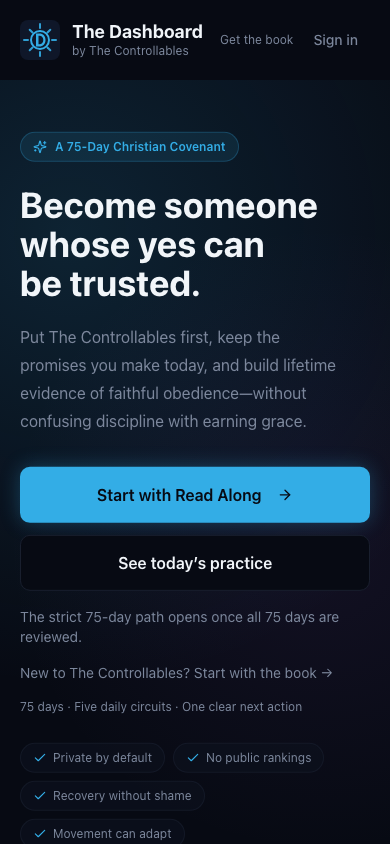
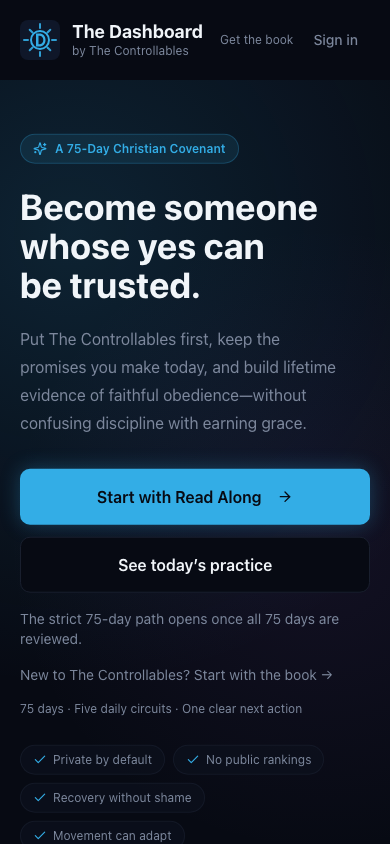
QA polish: Formation book links, sign out and independent loading (#70)
* Polish Formation entry, book links, sign out and independent loading

* Verify rebased mobile QA with deterministic menu dismissal

* Capture combined functional and polish receipt state

diff --git a/tests/unit/qa-polish.test.ts b/tests/unit/qa-polish.test.ts
@@ -1,0 +1,43 @@
+import { createElement, useContext, type ReactNode } from "react";
+import { act,create } from "react-test-renderer";
+import { MemoryRouter } from "react-router-dom";
+import { QueryClient, QueryClientProvider } from "@tanstack/react-query";
+import { describe,it,expect,vi } from "vitest";
+import { BookLink } from "@/components/BookLink";
+import { BOOK_URL } from "@/lib/bookLinks";
+import { trackGrowthEvent } from "@/lib/growthEvents";
+import { ProfileMenu } from "@/components/layout/ProfileMenu";
+import { BottomNav } from "@/components/layout/BottomNav";
+import { FormationBookBoundary } from "@/components/formation/FormationBookBoundary";
+import { BookLoopContext } from "@/hooks/useBookLoopState";
+import { renderToStaticMarkup } from "react-dom/server";
+import { WhyStartSection } from "@/components/landing/WhyStartSection";
+import { OnboardingWelcome } from "@/components/onboarding/OnboardingWelcome";
+vi.mock("@/lib/devMockAuth",()=>({isDevMockAuthEnabled:()=>false}));
+vi.mock("@/lib/featureFlags",()=>({getFeatureFlag:()=>true,formationCircuitsEnabled:()=>true}));
+vi.mock("@/lib/growthEvents",()=>({trackGrowthEvent:vi.fn()}));
+vi.mock("@/components/BookLoopProvider",()=>({BookLoopProvider:()=>createElement("p",null,"Loading book data")}));
+vi.mock("@/components/ui/dropdown-menu",()=>{const Box=({children,...props}:{children:ReactNode})=>createElement("div",props,children); return {DropdownMenu:Box,DropdownMenuTrigger:Box,DropdownMenuContent:Box,DropdownMenuItem:Box};});
+describe("QA polish boundaries",()=>{
+ it.each(["formation_today","formation_circuit"] as const)("tracks the shared book destination at %s",placement=>{
+  let tree:ReturnType<typeof create>; act(()=>{tree=create(createElement(BookLink,{placement,children:"Get the book"}));});
+  const link=tree!.root.findByType("a"); expect(link.props.href).toBe(BOOK_URL); act(()=>link.props.onClick()); expect(trackGrowthEvent).toHaveBeenCalledWith("book_link_click",{placement}); act(()=>tree!.unmount());
+ });
+ it("exposes sign out in profile menu and mobile navigation without settings",()=>{
+  const signOut=vi.fn(),settings=vi.fn(); let tree:ReturnType<typeof create>;
+  act(()=>{tree=create(createElement(MemoryRouter,null,createElement(ProfileMenu,{onSignOut:signOut,onSettings:settings}),createElement(BottomNav,{onSignOut:signOut})));});
+  const menu=tree!.root.findAllByType("div").find(n=>n.props.onSelect===signOut)!; act(()=>menu.props.onSelect());
+  const mobile=tree!.root.findAllByType("button").find(n=>n.props.onClick===signOut)!; act(()=>mobile.props.onClick());
+  expect(signOut).toHaveBeenCalledTimes(2); expect(settings).not.toHaveBeenCalled(); act(()=>tree!.unmount());
+ });
+ it("renders Formation immediately with authenticated book context, keeping other routes on their book boundary",()=>{
+  const client=new QueryClient(); function Child(){return createElement("p",null,`Formation ${useContext(BookLoopContext)}`);}
+  let tree:ReturnType<typeof create>; const render=(formation:boolean)=>createElement(QueryClientProvider,{client},createElement(FormationBookBoundary,{userId:"alice",formation,children:createElement(Child)}));
+  act(()=>{tree=create(render(true));}); expect(JSON.stringify(tree!.toJSON())).toContain("Formation alice"); expect(JSON.stringify(tree!.toJSON())).not.toContain("Loading book data");
+  act(()=>tree!.update(render(false))); expect(JSON.stringify(tree!.toJSON())).toContain("Loading book data"); act(()=>tree!.unmount());client.clear();
+ });
+ it("renders clear welcome copy without implementation jargon",()=>{
+  const html=renderToStaticMarkup(createElement("div",null,createElement(WhyStartSection),createElement(OnboardingWelcome,{onContinue:()=>{},onSkip:()=>{}})));
+  expect(html).not.toMatch(/Life OS|idempotent/i); expect(html).toContain("The Dashboard will suggest");
+ });
+});

diff --git a/tests/e2e/qa-polish.spec.ts b/tests/e2e/qa-polish.spec.ts
@@ -1,0 +1,24 @@
+import {test,expect} from "@playwright/test";
+import {BOOK_URL} from "../../src/lib/bookLinks";
+test.use({reducedMotion:"reduce"});
+async function settled(page: import("@playwright/test").Page, selector:string){ await expect.poll(()=>page.locator(selector).evaluate(el=>{let opacity=1;for(let n:Element|null=el;n;n=n.parentElement)opacity*=Number(getComputedStyle(n).opacity);return opacity;})).toBe(1); }
+test("mobile Formation book links, sign out, copy, and signup-only guidance",async({page})=>{
+ await page.route("**/*",route=>new URL(route.request().url()).hostname==="127.0.0.1"?route.continue():route.abort());
+ const start=Date.now(); await page.goto("/formation/today"); await expect(page.getByRole("heading",{name:"Practice what you can control."})).toBeVisible(); console.log(`QA polish Today shell ${Date.now()-start}ms`);
+ await expect(page.locator('[data-book-placement="formation_today"]')).toHaveAttribute("href",BOOK_URL);
+ await expect(page.locator("body")).not.toContainText(/Life OS|idempotent/i);
+ await page.getByRole("button",{name:"Profile menu"}).click(); await expect(page.getByRole("menuitem",{name:"Sign Out"})).toBeVisible(); await page.getByRole("menu",{name:"Profile menu"}).press("Escape"); await expect(page.getByRole("menu",{name:"Profile menu"})).toBeHidden();
+ await expect(page.getByRole("button",{name:"Sign Out",exact:true})).toBeVisible();
+ await page.getByRole("button",{name:"Open Awareness"}).click(); await expect(page.locator('[data-book-placement="formation_circuit"]')).toHaveAttribute("href",BOOK_URL); await expect(page.locator("body")).not.toContainText(/Life OS|idempotent/i);
+ await page.goto("/formation/today");
+ await page.evaluate(async()=>{
+  const circuitsPath="/src/domain/formation/circuits.ts",repoPath="/src/data/formation/circuitRepository.ts",authPath="/src/lib/devMockAuth.ts",rulesPath="/src/domain/formation/circuitRules.ts";
+  const {CIRCUIT_TYPES,createEmptyCircuitDraft}=await import(circuitsPath),{saveFormationCircuit}=await import(repoPath),{DEV_MOCK_USER_ID}=await import(authPath),{getLocalDate}=await import(rulesPath);
+  const actions=["scripture_opened","prayer_practiced","main_promise_completed","sleep_preparation","service_completed"];
+  for(const [i,circuit] of CIRCUIT_TYPES.entries()){const draft=createEmptyCircuitDraft();draft.actions[actions[i]]=true;await saveFormationCircuit({userId:DEV_MOCK_USER_ID,track:"read_along",circuit,localDate:getLocalDate(),draft,localOnly:true});}
+ });
+ await page.reload(); await expect(page.getByRole("progressbar",{name:"5 of 5 circuits recorded"})).toBeVisible(); await settled(page,"h1"); await page.screenshot({path:"docs/qa/pr2/today-mobile.png",fullPage:true});
+ await page.getByRole("button",{name:"Sign Out",exact:true}).click(); await expect(page.getByTestId("cta-get-started")).toBeVisible(); await settled(page,'[data-testid="cta-get-started"]'); await page.screenshot({path:"docs/qa/pr2/landing-mobile.png"});
+ await page.goto("/auth"); await expect(page.getByTestId("auth-form")).toBeVisible(); await expect(page.locator("#password-help")).toHaveCount(0); await expect(page.getByTestId("auth-password-input")).not.toHaveAttribute("aria-describedby","password-help"); await settled(page,'[data-testid="auth-form"]'); await page.screenshot({path:"docs/qa/pr2/auth-mobile.png",fullPage:true});
+ await page.goto("/auth?mode=signup"); await expect(page.locator("#password-help")).toBeVisible(); await expect(page.getByTestId("auth-password-input")).toHaveAttribute("aria-describedby","password-help");
+});

diff --git a/src/components/layout/LifeOSLayout.tsx b/src/components/layout/LifeOSLayout.tsx
@@ -1,7 +1,8 @@
-import { BookLoopProvider } from "@/components/BookLoopProvider";
+import { FormationBookBoundary } from "@/components/formation/FormationBookBoundary";
+import { ProfileMenu } from "./ProfileMenu";
 import { useState, useCallback, Suspense, useEffect } from "react";
 import { useNavigate, Outlet, useLocation } from "react-router-dom";
-import { Book, Flag, FlaskConical, RefreshCw, Settings } from "lucide-react";
+import { Book, Flag, FlaskConical, RefreshCw } from "lucide-react";
 import { Button } from "@/components/ui/button";
 import { Logo } from "@/components/Logo";
 import { SplashScreen } from "@/components/SplashScreen";
@@ -130,15 +131,7 @@ export const LifeOSLayout = () => {
               >
                 <Book className="w-4 h-4" />
               </Button>
-              <Button
-                variant="ghost"
-                size="icon"
-                onClick={() => setShowProfileSettings(true)}
-                className="rounded-xl text-muted-foreground hover:text-foreground"
-                title="Profile Settings"
-              >
-                <Settings className="w-4 h-4" />
-              </Button>
+              <ProfileMenu onSettings={() => setShowProfileSettings(true)} onSignOut={() => void handleSignOut()} />
             </div>
           </div>
         </header>
@@ -166,7 +159,7 @@ export const LifeOSLayout = () => {
               pullDistance={pullDistance}
             />
             <div className="mx-auto w-full max-w-md px-3 py-4 sm:px-5 md:max-w-3xl md:px-6 lg:max-w-5xl xl:max-w-7xl">
-              <BookLoopProvider userId={user.id}>
+              <FormationBookBoundary userId={user.id} formation={location.pathname.startsWith("/formation/")}>
                 <AnimatePresence mode="wait">
                   <motion.div
                     key={location.pathname}
@@ -180,13 +173,13 @@ export const LifeOSLayout = () => {
                     </Suspense>
                   </motion.div>
                 </AnimatePresence>
-              </BookLoopProvider>
+              </FormationBookBoundary>
             </div>
           </main>
         </div>
 
         {/* Bottom nav (mobile only) */}
-        <BottomNav />
+        <BottomNav onSignOut={handleSignOut} />
 
         {/* Global overlays */}
         <OfflineIndicator />

diff --git a/src/pages/Auth.tsx b/src/pages/Auth.tsx
@@ -493,13 +493,13 @@ export default function Auth() {
                     </div>
                     <div className="relative">
                       <Lock className="absolute left-3 top-1/2 -translate-y-1/2 w-4 h-4 text-muted-foreground" />
-                      <Input id="password" required minLength={6} aria-describedby="password-help" type={showPassword ? "text" : "password"} value={password} onChange={(e) => setPassword(e.target.value)} placeholder="••••••••" className="pl-10 pr-10 bg-background/50" autoComplete={mode === "signin" ? "current-password" : "new-password"} data-testid="auth-password-input" />
+                      <Input id="password" required minLength={6} aria-describedby={mode === "signup" ? "password-help" : undefined} type={showPassword ? "text" : "password"} value={password} onChange={(e) => setPassword(e.target.value)} placeholder="••••••••" className="pl-10 pr-10 bg-background/50" autoComplete={mode === "signin" ? "current-password" : "new-password"} data-testid="auth-password-input" />
                       <button type="button" onClick={() => setShowPassword(!showPassword)} aria-label={showPassword ? "Hide password" : "Show password"} className="absolute right-0 top-1/2 flex h-10 w-10 -translate-y-1/2 items-center justify-center text-muted-foreground hover:text-foreground">
                         {showPassword ? <EyeOff className="w-4 h-4" /> : <Eye className="w-4 h-4" />}
                       </button>
                     </div>
                   </div>
-                  <p id="password-help" className="text-xs text-muted-foreground">Use at least 6 characters. A longer, unique password is best.</p>
+                  {mode === "signup" ? <p id="password-help" className="text-xs text-muted-foreground">Use at least 6 characters. A longer, unique password is best.</p> : null}
                   <Button type="submit" variant="glow" className="w-full" disabled={isLoading || (mode === "signup" && selectedEnrollment?.track === "fully_charged_75" && !availability.data?.strictReady)} data-testid="auth-submit-button">
                     {isLoading ? (mode === "signin" ? "Signing in..." : "Creating account...") : (mode === "signin" ? "Sign In" : "Create account & start my daily loop")}
                   </Button>

diff --git a/src/pages/FormationCircuit.tsx b/src/pages/FormationCircuit.tsx
@@ -1,3 +1,4 @@
+import { BookLink } from "@/components/BookLink";
 import { readPublishedGospelAwareness } from "@/domain/formation/gospelAwareness";
 import { trackFirstCircuitCompleted } from "@/lib/growthEvents";
 import { ArrowLeft, CheckCircle2, LockKeyhole, Save, ShieldCheck } from "lucide-react";
@@ -204,6 +205,7 @@ function FormationCircuitExperience({ circuit }: { circuit: keyof typeof CIRCUIT
         }
       >
         <p className="text-sm text-muted-foreground">{evaluation.statusDescription}</p>
+        <p className="mt-3 text-sm"><BookLink placement="formation_circuit" className="inline-flex min-h-11 items-center text-primary underline">Read The Controllables · Get the book</BookLink></p>
       </FutureHero>
 
       {definition.privacyNote ? (
@@ -284,7 +286,7 @@ function FormationCircuitExperience({ circuit }: { circuit: keyof typeof CIRCUIT
         <div className="flex flex-col gap-3 sm:flex-row sm:items-center sm:justify-between">
           <div className="min-w-0">
             <p className="flex items-center gap-2 text-sm font-semibold"><CheckCircle2 className="h-4 w-4 text-primary" />{evaluation.statusLabel}</p>
-            <p className="mt-1 truncate text-xs text-muted-foreground">{localOnly ? "Local QA data only" : "Use Save progress to keep changes"} · idempotent daily record</p>
+            <p className="mt-1 truncate text-xs text-muted-foreground">{localOnly ? "Local QA data only" : "Use Save progress to keep changes"} · Your daily practice stays in one saved record</p>
           </div>
           <div className="flex gap-2">
             <Button variant="ghost" disabled={isSaving} onClick={() => navigate(APP_ROUTES.formationToday)}>Return to Today</Button>

diff --git a/tests/unit/qa-auth-hint.test.ts b/tests/unit/qa-auth-hint.test.ts
@@ -1,0 +1,17 @@
+// @vitest-environment jsdom
+import { createElement } from "react";
+import { act,create } from "react-test-renderer";
+import { MemoryRouter } from "react-router-dom";
+import { it,expect,vi } from "vitest";
+import Auth from "@/pages/Auth";
+vi.mock("@/hooks/useFormationEntryStatus",()=>({useFormationEntryStatus:()=>({data:{strictReady:false}})}));
+vi.mock("@/hooks/useAnalytics",()=>({usePageViewTracking:()=>{},useAnalytics:()=>({trackEvent:vi.fn()})}));
+vi.mock("@/hooks/useOnboardingAnalytics",()=>({useOnboardingAnalytics:()=>({trackOnboardingEvent:vi.fn()})}));
+vi.mock("@/lib/growthEvents",()=>({trackGrowthEvent:vi.fn()}));
+vi.mock("@/integrations/supabase/client",()=>({supabase:{auth:{getSession:async()=>({data:{session:null}}),onAuthStateChange:()=>({data:{subscription:{unsubscribe(){}}}})}}}));
+it.each(["signin","signup"])("password guidance is conditional in %s",async mode=>{
+ let tree:ReturnType<typeof create>; await act(async()=>{tree=create(createElement(MemoryRouter,{initialEntries:[`/auth?mode=${mode}`]},createElement(Auth)));});
+ expect(tree!.root.findAllByProps({id:"password-help"})).toHaveLength(mode==="signup"?1:0);
+ const input=tree!.root.findAllByType("input").find(n=>n.props.id==="password")!;
+ expect(input.props["aria-describedby"]).toBe(mode==="signup"?"password-help":undefined); act(()=>tree!.unmount());
+});

diff --git a/src/pages/FormationToday.tsx b/src/pages/FormationToday.tsx
@@ -1,3 +1,4 @@
+import { BookLink } from "@/components/BookLink";
 import { FirstWeekPanel } from "@/components/formation/FirstWeekPanel";
 import {
   ArrowRight,
@@ -106,6 +107,7 @@ export default function FormationToday() {
         <p className="text-sm leading-relaxed text-muted-foreground">
           Five distinct circuits, one honest day. Open a circuit to see what your selected path requires or recommends.
         </p>
+        <p className="mt-3 text-sm"><BookLink placement="formation_today" className="inline-flex min-h-11 items-center text-primary underline">Read The Controllables · Get the book</BookLink></p>
       </FutureHero>
 
       <FuturePanel className="p-4 sm:p-5">
@@ -196,7 +198,7 @@ export default function FormationToday() {
         <div className="flex items-start gap-3">
           <History className="mt-0.5 h-4 w-4 shrink-0 text-muted-foreground" />
           <div>
-            <p className="text-sm font-semibold">Your Life OS history remains available.</p>
+            <p className="text-sm font-semibold">Your earlier history remains available.</p>
             <p className="mt-1 text-xs text-muted-foreground">Your reflections, proof, promises and other tools remain available. Keep Today as your starting point.</p>
           </div>
         </div>

diff --git a/src/components/formation/FormationBookBoundary.tsx b/src/components/formation/FormationBookBoundary.tsx
@@ -1,0 +1,18 @@
+import { useEffect, type ReactNode } from "react";
+import { useQueryClient } from "@tanstack/react-query";
+import { BookLoopProvider } from "@/components/BookLoopProvider";
+import { getFeatureFlag } from "@/lib/featureFlags";
+import { isDevMockAuthEnabled } from "@/lib/devMockAuth";
+import { BookLoopContext } from "@/hooks/useBookLoopState";
+
+/** Formation loads its own data. Retain authenticated cloud book semantics without waiting for import. */
+export function FormationBookBoundary({ userId, formation, children }: { userId:string; formation:boolean; children:ReactNode }) {
+  const client = useQueryClient();
+  useEffect(() => {
+    client.removeQueries({ queryKey:["book-loop"], predicate:q=>q.queryKey[1] !== userId });
+    return () => { client.removeQueries({queryKey:["book-loop",userId]}); };
+  },[client,userId]);
+  if (formation && (!getFeatureFlag("server_book_loop_enabled") || isDevMockAuthEnabled())) return <>{children}</>;
+  if (formation) return <BookLoopContext.Provider value={userId}>{children}</BookLoopContext.Provider>;
+  return <BookLoopProvider userId={userId}>{children}</BookLoopProvider>;
+}

diff --git a/src/components/layout/BottomNav.tsx b/src/components/layout/BottomNav.tsx
@@ -1,4 +1,4 @@
-import { Archive, BatteryCharging, BookOpen, Dumbbell, Sun } from "lucide-react";
+import { Archive, LogOut, BatteryCharging, BookOpen, Dumbbell, Sun } from "lucide-react";
 import { useLocation, useNavigate } from "react-router-dom";
 import { motion } from "framer-motion";
 import { APP_ROUTES } from "@/lib/appRoutes";
@@ -12,7 +12,7 @@ const navItems = [
   { path: APP_ROUTES.myControllables, label: "My", icon: BatteryCharging },
 ];
 
-export const BottomNav = () => {
+export const BottomNav = ({ onSignOut }: { onSignOut?: () => void }) => {
   const location = useLocation();
   const navigate = useNavigate();
 
@@ -59,6 +59,7 @@ export const BottomNav = () => {
             </motion.button>
           );
         })}
+        {onSignOut ? <button onClick={onSignOut} className="flex min-h-11 min-w-0 flex-1 flex-col items-center gap-0.5 rounded-xl px-1 py-2 text-muted-foreground hover:bg-muted/40"><LogOut className="h-5 w-5" /><span className="text-[10px] font-medium">Sign Out</span></button> : null}
       </div>
     </nav>
   );

diff --git a/src/components/onboarding/OnboardingWelcome.tsx b/src/components/onboarding/OnboardingWelcome.tsx
@@ -17,12 +17,12 @@ export function OnboardingWelcome({ onContinue, onSkip }: OnboardingWelcomeProps
     >
       <div className="max-w-md w-full text-center space-y-8">
         <div className="space-y-2">
-          <p className="text-xs uppercase tracking-[0.2em] text-muted-foreground">AI Life Operating System</p>
+          <p className="text-xs uppercase tracking-[0.2em] text-muted-foreground">Your daily formation</p>
           <h1 className="text-2xl font-bold tracking-tight text-foreground leading-snug">
             Teach your system how your life works.
           </h1>
           <p className="text-sm text-muted-foreground leading-relaxed pt-2">
-            Connect a few signals — your calendar, your energy, what matters to you — and your Life OS will generate your first daily direction.
+            Connect a few signals — your calendar, your energy, what matters to you — and The Dashboard will suggest your first daily direction.
           </p>
         </div>
 

diff --git a/src/components/layout/ProfileMenu.tsx b/src/components/layout/ProfileMenu.tsx
@@ -1,0 +1,12 @@
+import { LogOut, Settings, UserRound } from "lucide-react";
+import { Button } from "@/components/ui/button";
+import { DropdownMenu, DropdownMenuTrigger, DropdownMenuContent, DropdownMenuItem } from "@/components/ui/dropdown-menu";
+export function ProfileMenu({ onSettings, onSignOut }: { onSettings:()=>void; onSignOut:()=>void }) {
+  return <DropdownMenu>
+    <DropdownMenuTrigger asChild><Button variant="ghost" size="icon" className="rounded-xl" aria-label="Profile menu"><UserRound className="h-4 w-4" /></Button></DropdownMenuTrigger>
+    <DropdownMenuContent align="end">
+      <DropdownMenuItem onSelect={onSettings}><Settings className="mr-2 h-4 w-4" />Profile Settings</DropdownMenuItem>
+      <DropdownMenuItem onSelect={onSignOut}><LogOut className="mr-2 h-4 w-4" />Sign Out</DropdownMenuItem>
+    </DropdownMenuContent>
+  </DropdownMenu>;
+}

diff --git a/src/components/BookLink.tsx b/src/components/BookLink.tsx
@@ -14,7 +14,7 @@ export const BookLink = forwardRef<HTMLAnchorElement, BookLinkProps>(function Bo
 ) {
   return (
     <a ref={ref} href={BOOK_URL} target="_blank" rel="noopener noreferrer"
-      className={className} data-testid={testId}
+      className={className} data-testid={testId} data-book-placement={placement}
       onClick={() => {
         try { void Promise.resolve(trackGrowthEvent("book_link_click", { placement })).catch(() => undefined); }
         catch { /* Analytics must never interrupt navigation. */ }
